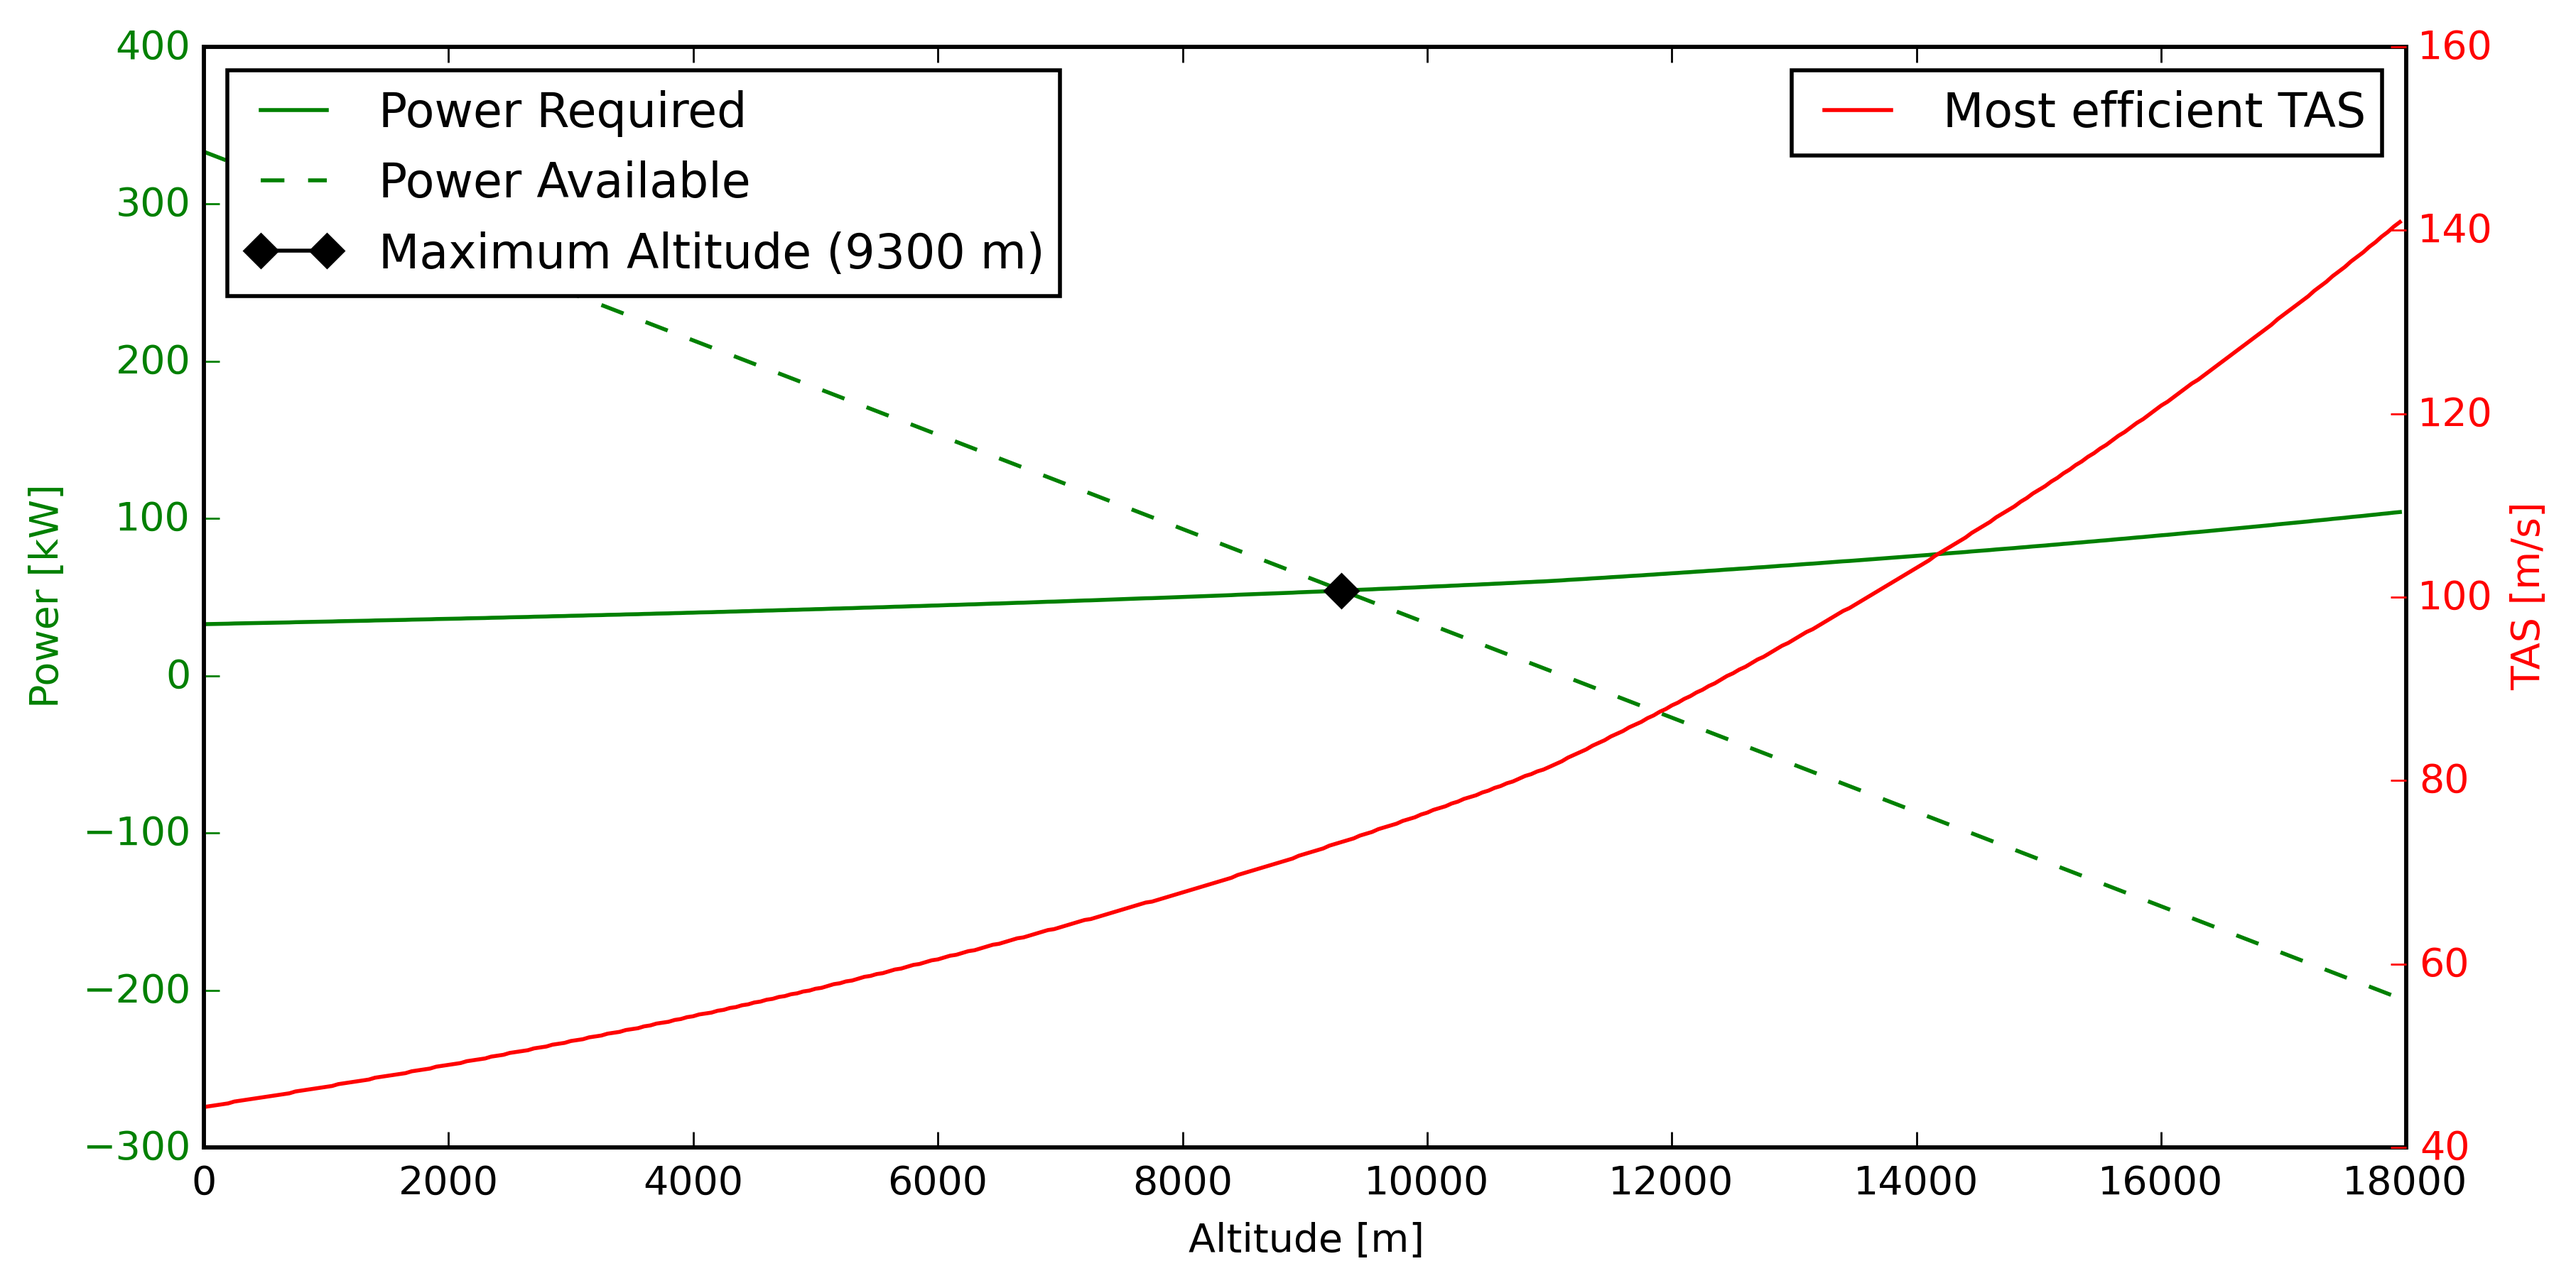
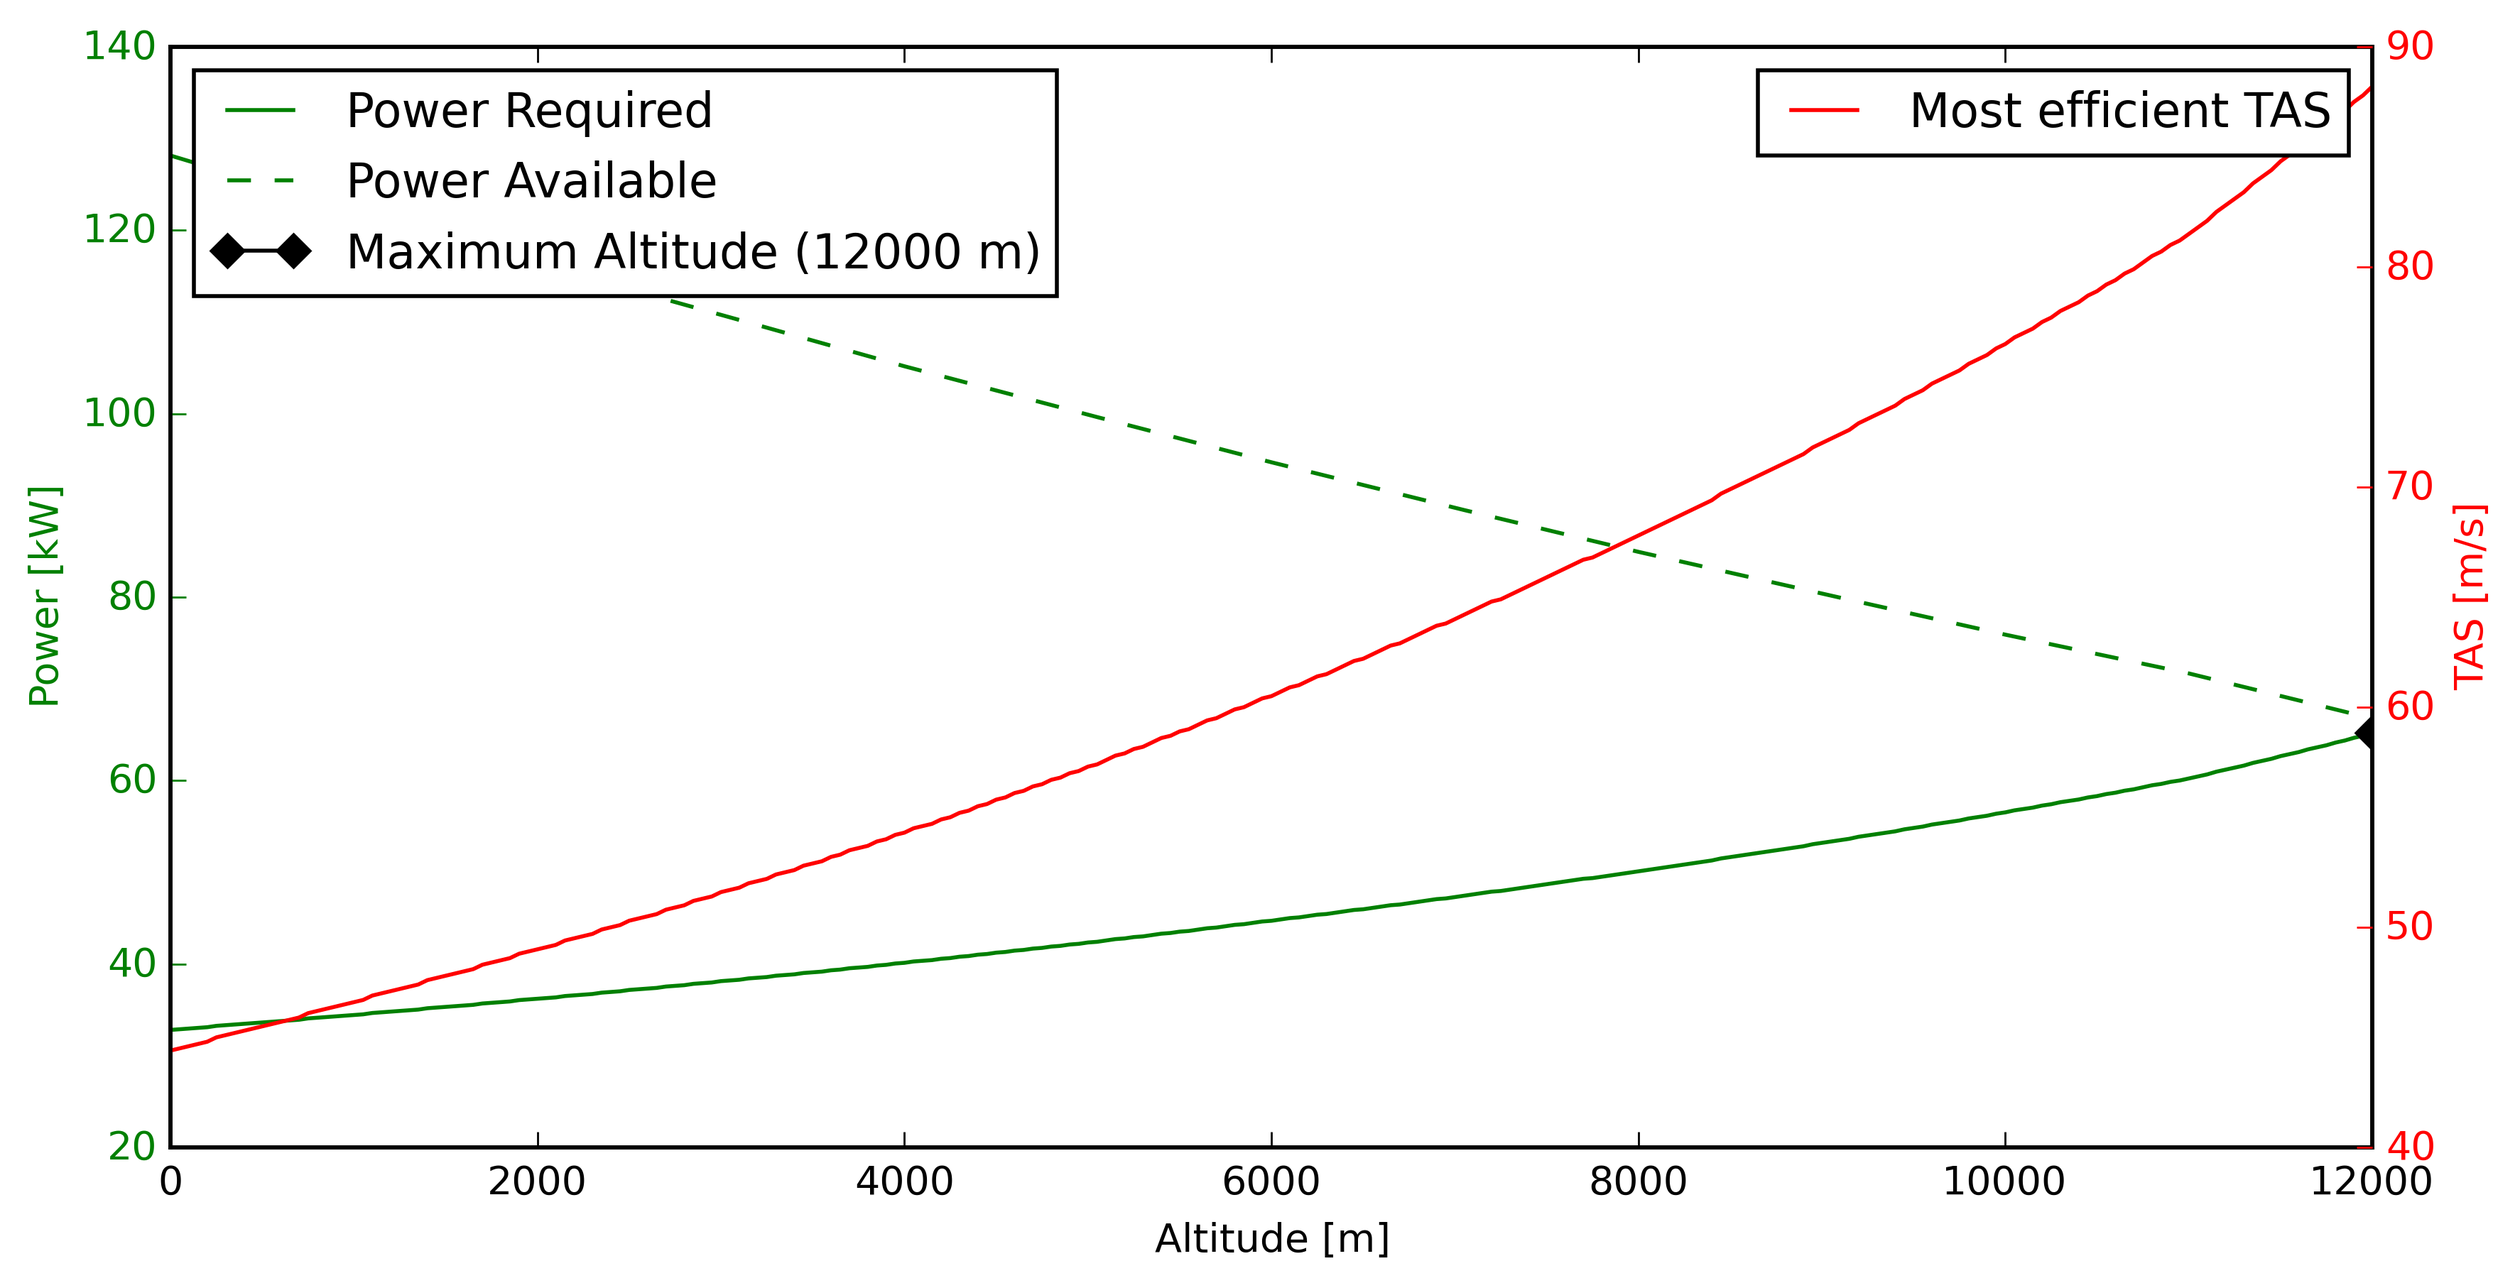
b

diff --git a/FPP/CruiseRange.py b/FPP/CruiseRange.py
@@ -37,7 +37,7 @@ import os
 airfoil_path = os.getcwd() + '\Polars\Eppler_prop.npz'
 h=1200
 V=100
-rps = 2800./60
+rpm = 2800
 #V_array = np.arange(5,150,1)
 #
 #thrust, torque, power_available = Analyse_prop(airfoil_path, h, V, rps)
@@ -80,14 +80,14 @@ def calcVminmax(W,V_array,S,h):
     PowerAva_simple = []
     V_array_simple = [10,40,80,120,150]
     for V in V_array_simple:
-        thrust, torque, power_available = Analyse_prop(airfoil_path, h, V, rps)
+        thrust, torque, power_available, power, eta_p = Analyse_prop(airfoil_path, h, V, rpm)
         PowerAva_simple.append(power_available)
     fit = np.polyfit(V_array_simple, PowerAva_simple, 1)
     PowerAva = V_array * fit[0] + fit[1]
 
 #    PowerAva = []
 #    for V in V_array:
-#        thrust, torque, power_available = Analyse_prop(airfoil_path, h, V, rps)
+#        thrust, torque, power_available = Analyse_prop(airfoil_path, h, V, rpm)
 #        PowerAva.append(power_available)
 #    PowerAva = np.array(PowerAva)
     
@@ -112,32 +112,47 @@ def calcPowerAva_alt(h_max,h_acc,h_acc_fit):
     h_simple = np.arange(0,h_max,h_acc_fit)
     for h in h_simple:
         
-        thrust, torque, power_available = Analyse_prop(airfoil_path, h, V, rps)
+        thrust, torque, power_available = Analyse_prop(airfoil_path, h, V, rpm)
         PowerAva_simple.append(power_available)
     fit = np.polyfit(h_simple, PowerAva_simple, 3)
     PowerAva_alt = fit[0]*h**3 + fit[1]*h**2 + fit[2]*h + fit[3]
     return PowerAva_alt
 
+W_cruise =1500
+V_array =np.arange(10,150,5)
+S=20
+
+
+
+
+
+
 def calcAltMax(W_cruise,V_array,S):
+    from scipy.interpolate import interp1d
+    h_max_an = 12000
     PowerCruise_alt = []
     V_Cruise_alt = []
     PowerAva_alt = []
-    h_cruise = np.arange(0,18000,50)
+    h_acc = 50
+    h_cruise = np.arange(0,h_max_an+h_acc,h_acc)
     for h in h_cruise:
         PowerCruise_eff, V_Cruise_eff, LD_Cruise_eff = calcPowerCruise(W_cruise,V_array,S,h)
         PowerCruise_alt.append(PowerCruise_eff)
         V_Cruise_alt.append(V_Cruise_eff)
-        PowerAva_alt.append(450/0.00135 - h*30) # UPDATE !!!!!!
+    #        PowerAva_alt.append(450/0.00135 - h*30) # UPDATE !!!!!!
     PowerCruise_alt = np.array(PowerCruise_alt)
     
-    thrust, torque, power_available = Analyse_prop(airfoil_path, h, V, rps)
+    #### 
     PowerAva_simple = []
-    h_cruise_simple = np.arange(0,18000,500)
-    for V in V_array_simple:
-        thrust, torque, power_available = Analyse_prop(airfoil_path, h, V, rps)
+    h_simple = np.arange(0,h_max_an+1000,1000)
+    for h in h_simple:
+        V = V_Cruise_alt[np.where(h_cruise == h)[0][0]]
+        thrust, torque, power_available, power, eta_p = Analyse_prop(airfoil_path, h, V, rpm)
         PowerAva_simple.append(power_available)
-    fit = np.polyfit(V_array_simple, PowerAva_simple, 1)
-    PowerAva = V_array * fit[0] + fit[1]
+    #fit = np.polyfit(h_simple, PowerAva_simple, 3)
+    fit = interp1d(h_simple,PowerAva_simple,1)
+    PowerAva_alt = fit(h_cruise)
+    #PowerAva_alt = fit[0]*h_cruise**3 + fit[1]*h_cruise**2 + fit[2]*h_cruise + fit[3]
     
     PowerAva_alt = np.array(PowerAva_alt)
     where = np.where(PowerCruise_alt < PowerAva_alt)[0][-1]
@@ -177,7 +192,7 @@ def calcAltMax(W_cruise,V_array,S):
     plt.show() 
     return PowerCruise_alt, PowerAva_alt, h_max
 
-#PowerCruise_alt, PowerAva_alt, h_max = calcAltMax(1600*9.81,np.arange(5,150,0.1),20)
+PowerCruise_alt, PowerAva_alt, h_max = calcAltMax(1600*9.81,np.arange(5,150,0.1),20)
 
 
 def calcPowerLoiter(W_loiter,V_array,S,h_loiter): # Calc Power Required during loiter. V needs to be array
